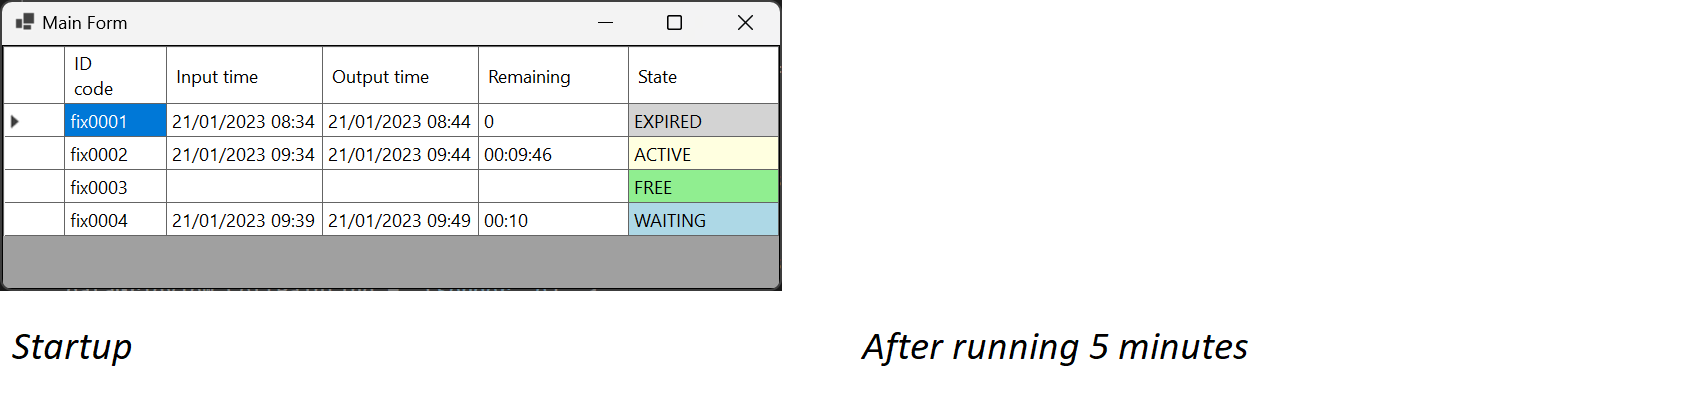
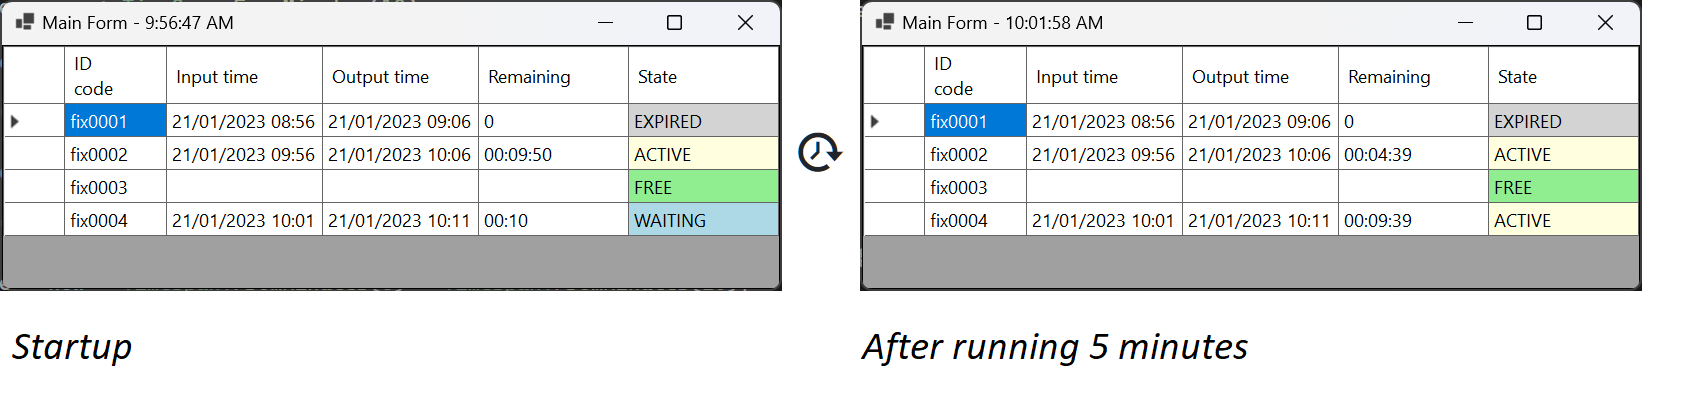
sync readme with SO

diff --git a/README.md b/README.md
@@ -1,16 +1,19 @@
-Your question is about countdown timers, specifically **How can I put different countdown timers in different cells?**
+Your question is about countdown timers, specifically:
+>**How can I put different countdown timers in different cells?**
 
 If you think about it, for any given row in your `DataGridView`, that information can be calculated by knowing these three things:
 - What is the input time?
 - What is the output time?
-- _What time is is NOW?_
+- _What time is is **NOW**!?_
 
-In an open ended way, you have asked for "help with this problem" so I will offer you one possible solution.
+In an open ended way, you have asked for "help with this problem" so I will offer you one possible solution because I believe that using the `DataSource` property of `DataGridView` will help you simplify all of your interactions with this powerful UI control.  
+
+[![screenshot][1]][1]
 
 ***
-**Record class to represent a row**
+**Record `class` represents a Row**
 
-Consider making a class that is a "model". Add public properties for values you wish to be shown in your `DataGridView`. To achieve a result similar to what you have shown in your post, you'll also want to make it a "smart" class than can update itself based on the current time.
+Consider making a class that is a "model" for a row. Add public properties for values you wish to be shown in your `DataGridView`. Obtaining a result similar to what you have shown in your post is simplified by giving it the ability to update _itself_ based on the current time.
 
     enum State
     {
@@ -68,21 +71,23 @@ Consider making a class that is a "model". Add public properties for values you 
         public State State { get; private set; }
     }
 
-    ***
-    **Data Binding**
+***
+**Data Binding**
 
-    Using the `Record` class, assign the `dataGridView.DataSource` to a `BindingList<Record>()`. Now, instead of having to work with the UI control directly you can add or remove records by manipulating the Records list.
+Using the `Record` class, assign the `dataGridView.DataSource` to a `BindingList<Record>()`. Now, instead of having to work with the UI control directly you can add or remove records by manipulating the Records list.
 
-    ***
-    **Updates**
+***
+**Updates**
 
-    Whenever `Refresh` is called on the `DataGridView` the individual records will refresh their calculations. The method that loads the form does the following:
+Whenever `Refresh` is called on the `DataGridView` the individual records will refresh their calculations. The method that loads the form does the following:
 
-    - Auto-generate columns for the DGV.
-    - Add four items for testing purposes.
-    - Attach a timer event to update the DGV and the main form title bar.
+- Auto-generate columns for the DGV.
+- Add four items for testing purposes.
+- Attach a timer event to update the DGV and the main form title bar.
 
-        public partial class MainForm : Form
+One you do this, the view will globally refresh one time per second, giving you a behavior similar to what you have described.
+
+    public partial class MainForm : Form
     {
         public MainForm() => InitializeComponent();
         protected override void OnLoad(EventArgs e)
@@ -159,3 +164,6 @@ Consider making a class that is a "model". Add public properties for values you 
         System.Windows.Forms.Timer _seconds = 
             new System.Windows.Forms.Timer { Interval = 1000 };
     }
+
+
+  [1]: https://i.stack.imgur.com/stuCx.png
